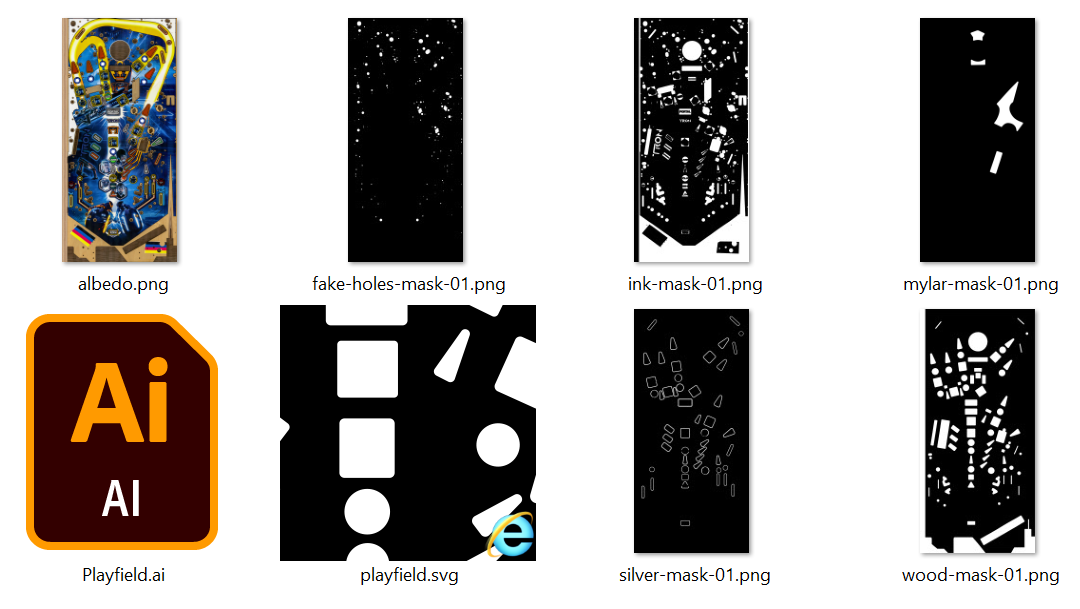
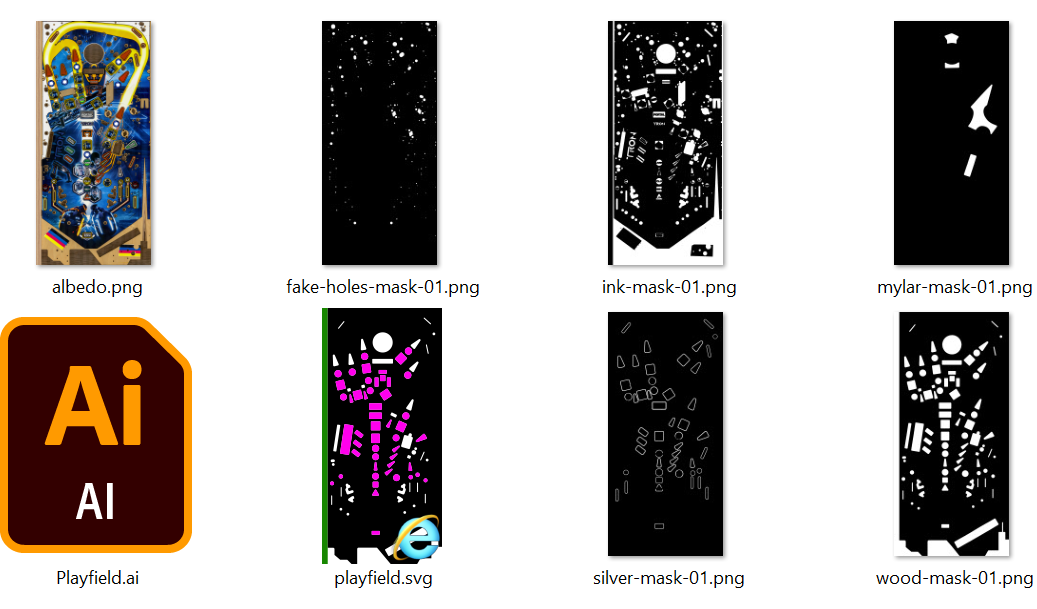
doc: Add playfield mesh creation page.

diff --git a/VisualPinball.Unity/Documentation~/creators-guide/tutorials/realistic-playfield/1-textures.md b/VisualPinball.Unity/Documentation~/creators-guide/tutorials/realistic-playfield/1-textures.md
@@ -18,13 +18,15 @@ The geometry of the playfield has three different areas:
 2. The plywood edges, which will be re-used by all edges that we will place on the left side of the texture
 3. The back side of the playfield, that is virtually invisible and mainly ignored.
 
-While often you create your geometry first, and then map the texture onto it, we're going to do it the other way around, which is firstly defining the UV-layout, and then extruding the geometry based on that. This will give us a perfectly accurate mapping.
+While often you create your geometry first, and then map the texture onto it, we're going to do it the other way around, which is firstly defining the UV-layout, and then extruding the geometry based on that. This will give us perfectly accurate mapping.
 
-The best way of doing this is to load your playfield scan, extend the canvas to the left, add the plywood texture, and save the result to a new file. So let's start.
+The best way of doing this is to load your playfield scan, extend the canvas to the left, add the plywood texture, and save the result to a new file. 
+
+So let's start!
 
 ## Albedo Texture
 
-The very first step is to create a plywood texture for the edges. Check the dimensions of your playfield scan, and create a new file with the same height (it's 6750 pixels in our example). Then, get a photo from the edge of some plywood, copy it a few times to get the whole height, and use a mask to make the copies seamless. Add some contrast if necessary and save it as `plywood.png`.
+We start by creating a plywood texture for the edges. Check the dimensions of your playfield scan, and create a new file with the same height (it's 6750 pixels in our example). Then, get a photo from the edge of some plywood, copy it a few times to get the whole height, and paint on a mask to make the copies seamless. Add some contrast if necessary and save it as `plywood.png`.
 
 ![Plywood edge](plywood-rotated.jpg)
 <small><i>The plywood edge texture. Get the original [here](plywood.png) or an alternative [here](plywood2.jpg).</i></small>
@@ -46,11 +48,11 @@ Open Adobe Illustrator. Create a new document, and import `albedo.png`. Resize t
 
 ![Playfield in Illustrator](illustrator-playfield.png)
 
-Create a new layer, name it *wood mask* and draw solid shapes that cover the visible holes. This includes insert holes, but also holes for lamps and triggers that aren't completely covered by another object.
+Create a new layer, name it *wood mask* and draw solid shapes that cover the visible holes. This includes insert holes, but also holes for lamps and triggers that aren't entirely covered by another object.
 
 Here a few tips that will probably make your life easier.
 
-- Click on the small circle right to the *wood mask* layer, and make the opacity 50%. This way, all elements in that layer are semi-transparent, allowing you to align your edges much better.
+- Click on the small circle right to the *wood mask* layer, and set the opacity to 50%. This way, all elements in that layer are semi-transparent, allowing you to align your edges much better.
 - Disable smart guides (`Ctrl+U`). It's much less annoying when you manipulate the curves.
 - Use the corner feature. Specially for inserts, draw pointed corners and use the rounded corner tool to round them off. You can do this for each corner individually.
 - Try to get a shot of the real playfield's back side. It gives you a better idea how narrow the inserts are cut. Often, the printed border of the insert overlaps with the hole.
@@ -60,7 +62,7 @@ Finally, your mask should look something like this.
 
 ![Wood Mask](illustrator-wood-mask.png)
 
-Now, we'll need the inverse shape of what you've just drawn. So, create an new layer, call it *masks*, and draw two rectangles: One that covers the playfield, and another that covers the plywood (turn *Smart Guides* back on for this). Color them differently and name them *full* and *plywood*. Duplicate *full* by hitting `Ctrl+C` and `Ctrl+F`. Hide the copy, and lock the *masks* layer so only the *wood mask* layer is unlocked.
+Now, we'll need the inverse shape of what you've just drawn. So, create an new layer, call it *masks*, and draw two rectangles: One that covers the playfield, and another that covers the plywood (turn *Smart Guides* back on for this, and make sure to snap to the edges of the artboard). Color them differently and name them *full* and *plywood*. Duplicate *full* by hitting `Ctrl+C` and `Ctrl+F`. Hide the copy, and lock the *masks* layer so only the *wood mask* layer is unlocked.
 
 Hit `Ctrl+A` to select all the wood mask shapes, and duplicate them with `Ctrl+C`, `Ctrl+F`. Unlock the *masks* layer, shift+select the *full* rectangle, open the *Path Finder* tool and hit the *Minus Front* button. Select the *masks* layer, right-click on the selected shape, and click *Arrange -> Send to Current Layer*. Rename the new object `<Compound Path>` to *wood*. Hide the *reference* and *wood mask* layer.
 
@@ -68,7 +70,7 @@ The result should look like this:
 
 ![Wood Mask (separated)](illustrator-wood-mask-separated.png)
 
-Export this as **black on white** PNG: Hide *plywood* and fill *wood* black. Click on *File -> Export -> Export As*, choose type PNG, check *Use Artboards*, and name it *wood-mask*. Under *Resolution*, choose something that is at least as large as your albedo (if you haven't resized the playfield scan after pasting into Illustrator, 72dpi will correspond to the original resolution). Set the *Background Color* to *White*.
+Export this as a **black on white** PNG: Hide *plywood* and fill *wood* black. Click on *File -> Export -> Export As*, choose type PNG, check *Use Artboards*, and name it *wood-mask*. Under *Resolution*, choose something that is at least as large as your albedo (if you haven't resized the playfield scan after pasting into Illustrator, 72dpi will correspond to the original resolution). Set the *Background Color* to *White*.
 
 ## Insert Mask
 
@@ -78,7 +80,7 @@ Drag and drop the *wood mask* layer onto the "plus" icon at the bottom of the *L
 
 ![Insert Mask](illustrator-insert-mask.png)
 
-Now we have everything we need for the playfield mesh. Hide the *reference* layer, unhide the *masks* layer (with both *wood* and *plywood* visible), hit `Ctrl+A`, `Ctrl+C`, *File -> New -> Create*, `Ctrl+F`, *File -> Save A Copy*, choose type *SVG*, and name it `playfield.svg`. In the *SVG Options* dialog hit *More Options* and uncheck everything. Also, set *Decimal Places* to `7`.
+Now we have everything we need for the playfield mesh. Hide the *reference* layer, unhide the *masks* layer (with both *wood* and *plywood* visible), hit `Ctrl+A`, `Ctrl+C`, *File -> New -> Create*, `Ctrl+F`. Then, resize the artboard so it fits the content. *File -> Save A Copy*, choose type *SVG*, and name it `playfield.svg`. In the *SVG Options* dialog hit *More Options* and uncheck everything. Also, set *Decimal Places* to `5`.
 
 > [!note]
 > The reason of doing it this way is that when "exporting" instead of "saving a copy", Illustrator saves the file differently, which often ends up in an erroneous import in Blender. *Save A Copy* also saves hidden layers which we don't want, that's why we create a new document.
@@ -95,7 +97,7 @@ Create a new layer and name it *ink mask*. Draw shapes around everything that is
 
 ![Ink Mask (closeup)](illustrator-ink-mask-closeup.png)
 
-Once you're done, export it as **white on black** PNG: Fill everything white, *File -> Export -> Export As*, name it `ink-mask.png`, don't forget to check *Use Artboards*, and choose black *Background Color*. This is how it looks for Tron (black background added for illustration purpose):
+Once you're done, export it as a **white on black** PNG: Make all shapes white, *File -> Export -> Export As*, name it `ink-mask.png`, don't forget to check *Use Artboards*, and choose black *Background Color*. This is how it looks for Tron (black background added for illustration purpose):
 
 
 ![Ink Mask](illustrator-ink-mask.png)
@@ -108,11 +110,11 @@ Masking those elements out allows us to use a proper height map later when creat
 
 ![Ink Mask (closeup)](illustrator-fake-holes-mask-closeup.png)
 
-Like the ink mask before, export this as **white on black** PNG and name it `fake-holes-mask.png` (don't forget to check *Use Artboards*).
+Once you're done, like the ink mask before, export this as a **white on black** PNG and name it `fake-holes-mask.png` (don't forget to check *Use Artboards*).
 
 ## Other Masks
 
-Tron has two special features: Mylar stickers to protect the playfield, and the special edition has silver ink around the inserts. We'll draw those as well and export the masks **white on black** as `mylar-mask.png` and `silver-mask.png`.
+Tron has two special features: Mylar stickers to protect the playfield, and the Limited Edition has silver ink around the inserts. We'll draw those as well and export the masks **white on black** as `mylar-mask.png` and `silver-mask.png`.
 
 ![Other Masks](illustrator-other-masks.png)
 

diff --git a/VisualPinball.Unity/Documentation~/creators-guide/tutorials/realistic-playfield/2-modeling.md b/VisualPinball.Unity/Documentation~/creators-guide/tutorials/realistic-playfield/2-modeling.md
@@ -5,3 +5,42 @@ description: How to create the playfield mesh.
 ---
 
 # Create the Playfield Mesh
+
+## Import the Shapes
+
+Open Blender. Delete everything (press `A`, `X`, `D`). Click on *File -> Import -> Scalable Vector Graphics (.svg)* and choose `playfield.svg` that you have exported in the last step. Select *wood* in the outliner, move your cursor over the viewport and hit `numpad 0` (zoom in on selected), `numpad 7` (top view).
+
+If you haven't grouped your inserts, you'll have a bunch of Curve objects. Select them all and hit `Ctrl+J` to join them. Rename the object to *inserts*. Hit `A` and choose *Object -> Set Origin -> Origin to Geometry*. You should see something like this:
+
+![Imported Shapes](blender-imported.png)
+
+Make sure that all three shapes (inserts, plywood and wood) are there.
+
+## Extrude
+
+Select the *wood* object. Under *Material Properties*, remove the `SVGMat` material so we better see the shape. Convert the shape to mesh by choosing *Object -> Convert To -> Mesh*. Hit `tab` for edit mode, `A` to select all, then clean up the mesh by going to *Mesh -> Cleanup -> Limited Dissolve*, followed by `M` and *By Distance* (merge by distance).
+
+Hit `E` to extrude, and eyeball it to something more or less accurate (you can of course always measure and type in the number). Hit `tab` to go back to object mode.
+
+![Imported Shapes](blender-extruded.png)
+
+## Smooth
+
+Since our cuts are round, let's smooth out the mesh. Select *Object -> Shade Smooth*. Don't panic, we'll fix the normals. Switch to edit mode (`tab`) and select one of the top faces. Hit `Shift+G`, *Coplanar*. While holding `shift`, select a one of the bottom faces. Again `Shift+G`, *Coplanar*. `Ctrl+I` to invert selection. *Select -> Select Loops -> Select Boundary Loop*. You now have all edges of the inserts as well as the outer borders selected.
+
+Make these edges sharp by selecting *Edge -> Mark Sharp*. Hit `A` to select all and choose *Mesh -> Normals -> Reset Vectors*. You should how have a mesh with a flat, uniform top and smooth inserts.
+
+![Smooth Edges](blender-smooth-edges.png)
+
+Maybe now it's a good time to save your project. Name it `Playfield.blend`.
+
+## Convert Other Objects
+
+We don't need to extrude the other objects, just convert them to a mesh so we can UV-map them. Exit edit mode with `tab` and select the *inserts* object. Remove `SVGMat`, select *Object -> Convert -> Mesh*, and hit `tab` for edit mode.
+
+Press `A` to select all, *Mesh -> Cleanup -> Limited Dissolve*, and `M`, *By Distance*. Exit edit mode by pressing `tab`. Since we extruded to the top, we need to align the *inserts* mesh. Hit `G`, `Z`, and type the distance you used to extrude.
+
+Finally, select the *plywood* object, remove its material and convert it to a mesh as well. The result should look like that:
+
+![Mesh Created!](blender-mesh-created.png)
+

diff --git a/VisualPinball.Unity/Documentation~/creators-guide/tutorials/realistic-playfield/index.md b/VisualPinball.Unity/Documentation~/creators-guide/tutorials/realistic-playfield/index.md
@@ -26,7 +26,7 @@ The other GameObject contains the printed ink above the inserts. It consists of 
 
 The material we'll be creating takes into account the difference between the wood and the ink, irregularities of the ink as well as some scratches. 
 
-In this tutorial, we're using the limited edition of Stern's *Tron: Legacy* as an example, which has two additional properties: There are mylar protection stickers on the playfield, and some of the ink has a silver screening.
+In this tutorial, we're using the Limited Edition of Stern's *Tron: Legacy* as an example, which has two additional properties: There are mylar protection stickers on the playfield, and some of the ink has a silver screening.
 
 ![Final result in Unity](tron-example.png)
 <small><i>The final result in Unity.</i></small>
